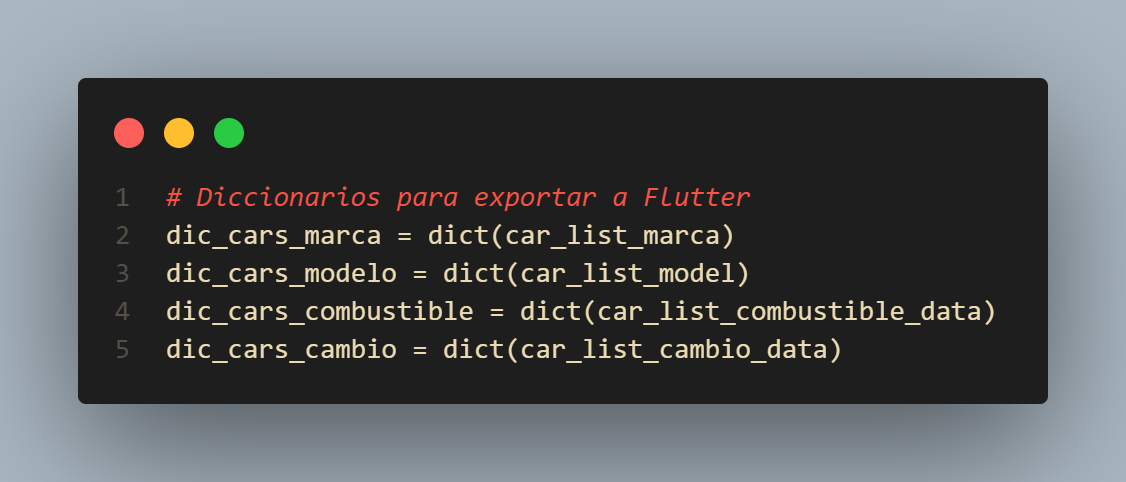
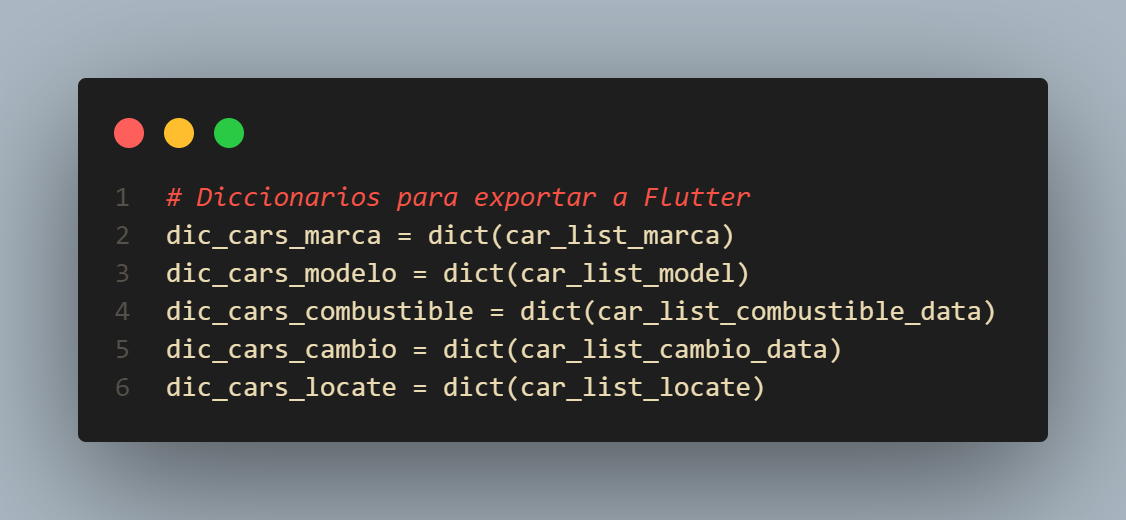
Exploración y Visualización (completado) - Punto 4 con parte de la descripción e imagenes de representación gráfica

diff --git a/README.md b/README.md
@@ -111,7 +111,7 @@ Algunas las quito por lógica y otras por que veo en las correlaciones que no in
 
 A este DataFrame sin las antiguas columnas lo voy a llamar `cars_pre`
 
-#### 4. **Añadir columnas con las ids para las marcas, modelos, combustible y caja de cambios.**
+#### 4. **Añadir columnas con las ids para las marcas, modelos, combustible, caja de cambios y localidad**
 
 ![Funciones-transformadoras](images/images_preprocesado/transform.png)
 
@@ -135,7 +135,6 @@ En este apartado hemos realizado lo siguiente:
         - Visualización por precio/año
         - Visualización por kilometro/año
 3. Visualización de los datos de las marcas con menos de 10.000 coches:
-    - Por cantidad menor de 10.000 coches
     - Por cantidad menor de 10.000 coches mas limitación de precio a 80.000€ y y kilometros a 500.000Km
         - Visualización por precio/año
         - Visualización por kilometro/año
@@ -183,6 +182,18 @@ Ahora bien, la limitación de kilometros la hago por que al revisar el `describe
 
 Como se puede ver solo están afectados 34 coches, por lo que decido limitar el kilometraje a 500.000km.
 
+Ahora voy a realizar algo similar pero con las marcas que contienen menos de 10 coches
+
+Primero saco la cantidad de coches que se verian afectados:
+
+![](images/images_preprocesado/less_cars_filter.png)
+
+Y ahora lo muestro graficamente
+
+![](images/images_preprocesado/less_cars.png)
+
+Viendo que la cantidad de coches afectada no es muy grande decido quitar estas marcas en la parte de preparación de los datos para machine learning que veremos mas adelante
+
 **Limitación de precio a 80.000€ y y kilometros a 500.000Km**
 
 Una vez limitados los datos del DataFrame los resultados son los siguientes:
@@ -199,3 +210,26 @@ Como se puede ver los datos que mas uniformes, por que en los siguientes pasos v
 
 #### 3. **Visualización de los datos de las marcas con menos de 10.000 coches**
 
+Empezamos mostrando la cantidad de marcas y de modelos que tenemos en el resto de coches.
+
+![](images/images_preprocesado/rest_cars.png)
+
+A continuación muestro 2 gráficas para marcas inferiores a 10000 coches y con la limitación de precio y kilometros ya establecida.
+
+Gráfica con limitación de precio
+
+![](images/images_preprocesado/dif_cars_year.png)
+
+Gráfica con limitación de kilometros
+
+![](images/images_preprocesado/dif_less_km.png)
+
+Ya para cerrar el apartado de la visualización voy a exponer 2 gráficas que he includo en el colab:
+
+La primera incluye un slider que permite seleccionar el año, esto es util para mostrar la cantidad de coches por año de todas las marcas
+
+![](images/images_preprocesado/slider_price_km.png)
+
+Otra gráfica que muestro es la correlación del precio respecto al motor(KW), ya que en las correlaciones salian bastante relacionadas
+
+![](images/images_preprocesado/engine_power.png)
